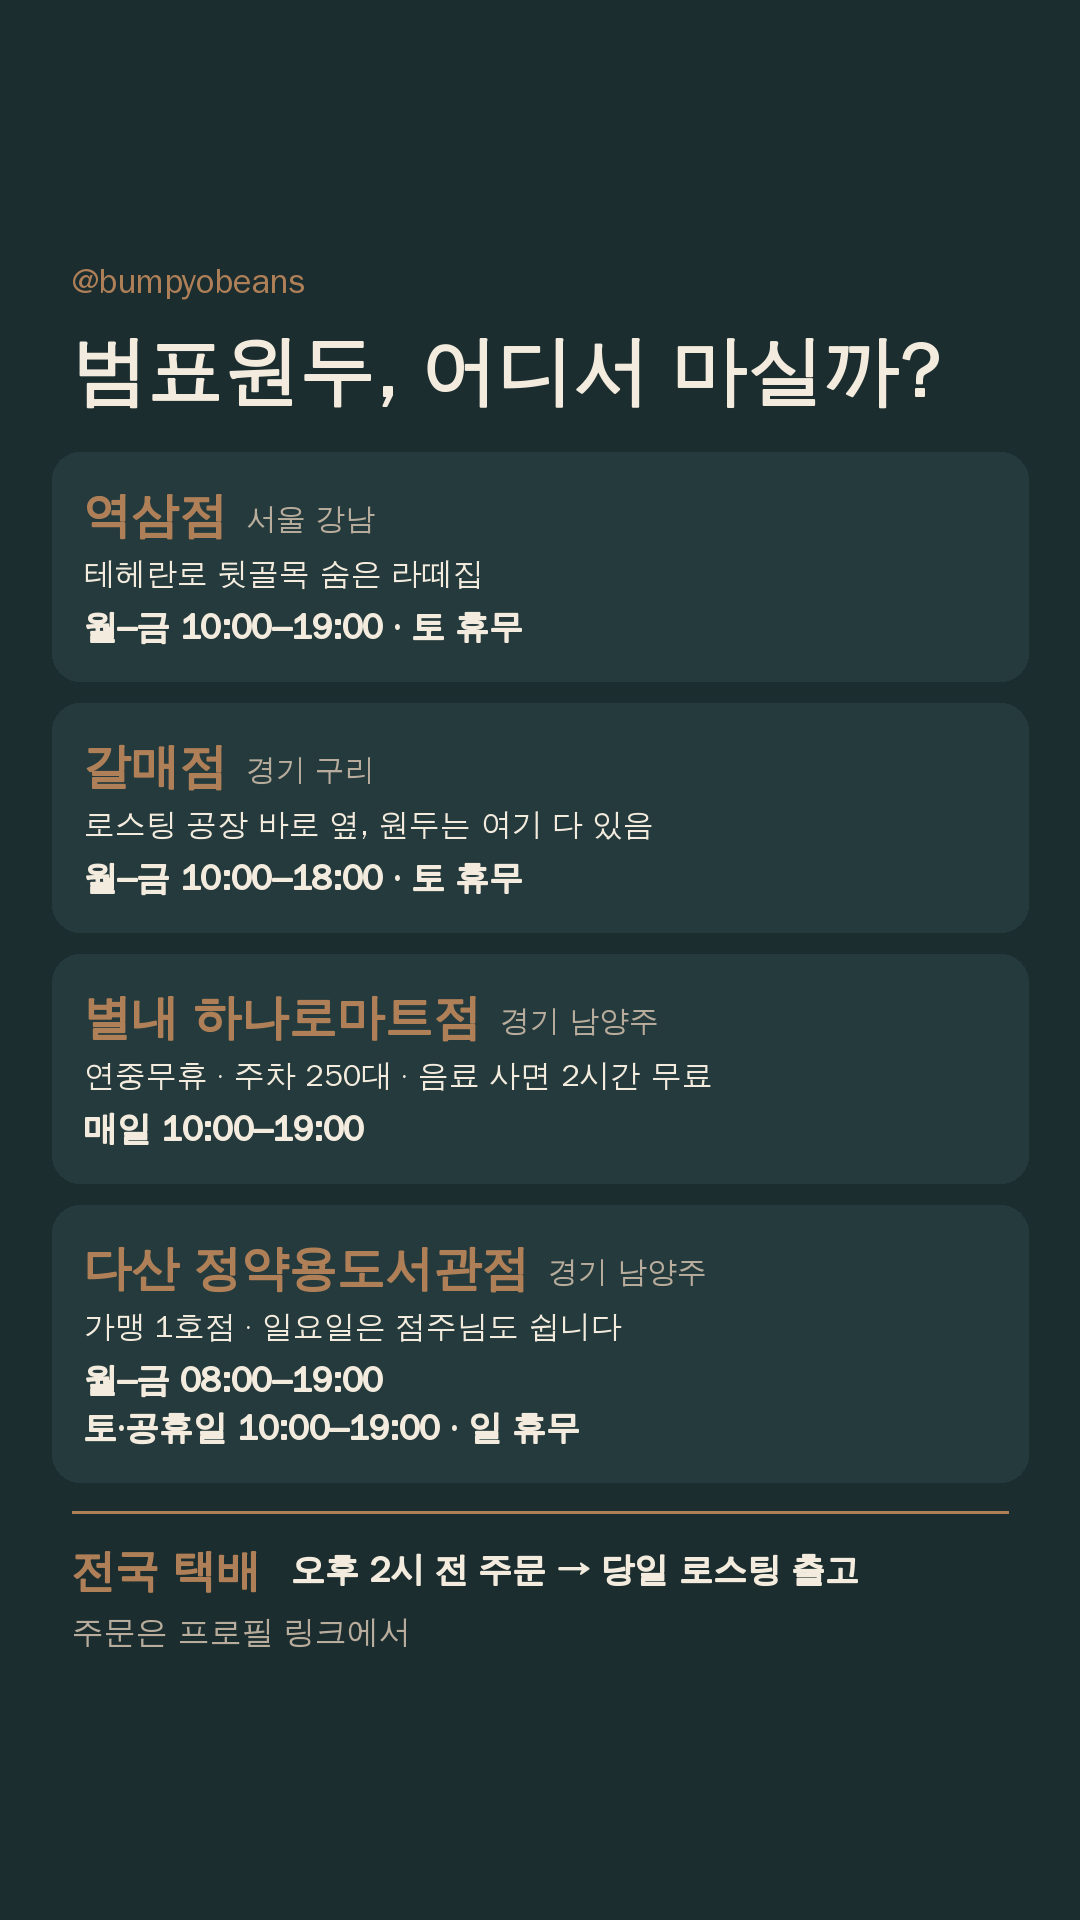
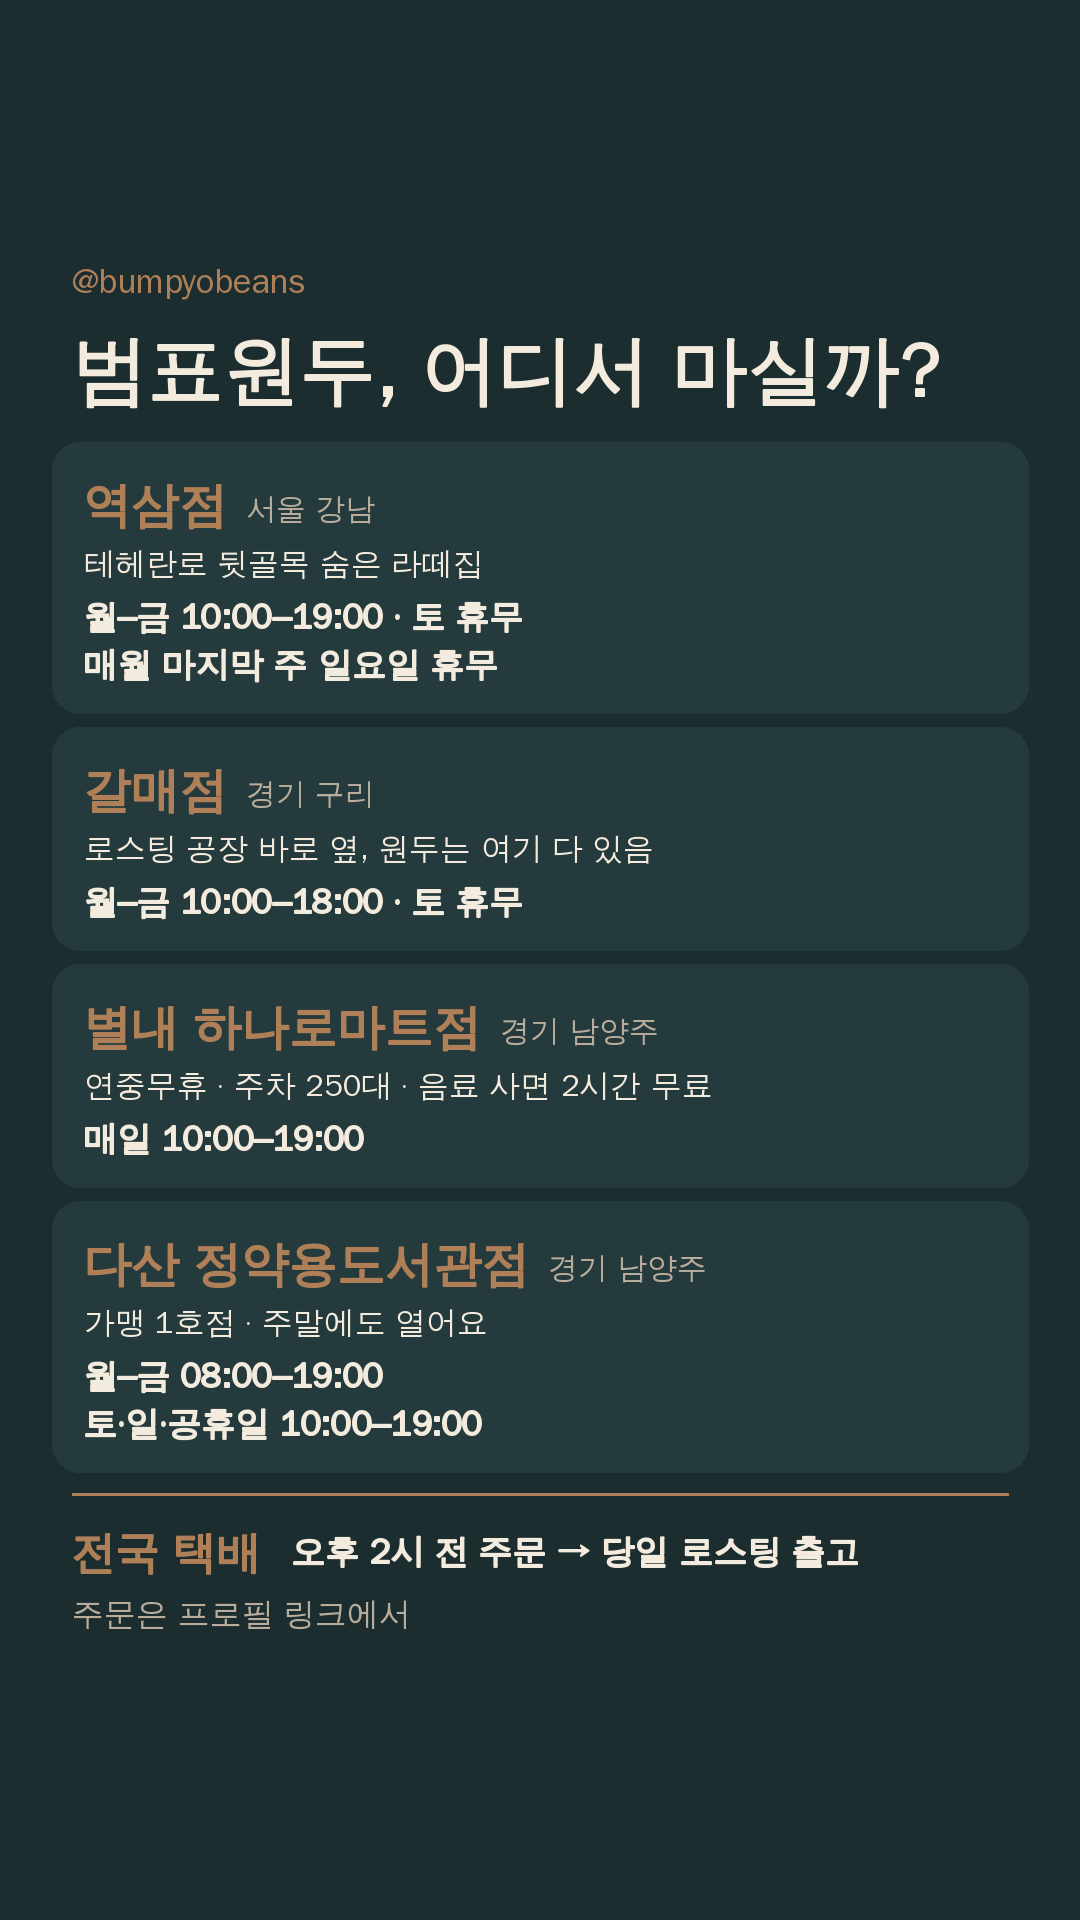
Update store hours: Dasan open weekends, Yeoksam closed last Sunday
Claude-Session: https://claude.ai/code/session_015nkFFMbZZ1pWpapoeisJCN

Changed region(s): [[0.0611, 0.25, 0.7944, 0.875], [0.55, 0.4062, 0.6111, 0.4688], [0.5806, 0.6562, 0.6417, 0.6875]]

diff --git a/highlight-covers/make_store_story.py b/highlight-covers/make_store_story.py
@@ -19,13 +19,13 @@ PAD = 72
 
 STORES = [
     ("역삼점", "서울 강남", "테헤란로 뒷골목 숨은 라떼집",
-     ["월–금 10:00–19:00 · 토 휴무"]),
+     ["월–금 10:00–19:00 · 토 휴무", "매월 마지막 주 일요일 휴무"]),
     ("갈매점", "경기 구리", "로스팅 공장 바로 옆, 원두는 여기 다 있음",
      ["월–금 10:00–18:00 · 토 휴무"]),
     ("별내 하나로마트점", "경기 남양주", "연중무휴 · 주차 250대 · 음료 사면 2시간 무료",
      ["매일 10:00–19:00"]),
-    ("다산 정약용도서관점", "경기 남양주", "가맹 1호점 · 일요일은 점주님도 쉽니다",
-     ["월–금 08:00–19:00", "토·공휴일 10:00–19:00 · 일 휴무"]),
+    ("다산 정약용도서관점", "경기 남양주", "가맹 1호점 · 주말에도 열어요",
+     ["월–금 08:00–19:00", "토·일·공휴일 10:00–19:00"]),
 ]
 
 
@@ -45,11 +45,11 @@ y = SAFE_TOP + 10
 text(d, (PAD, y), "@bumpyobeans", 34, TAN)
 y += 62
 text(d, (PAD, y), "범표원두, 어디서 마실까?", 76, CREAM, bold=True)
-y += 130
+y += 120
 
 NAME, SUB, DESC, HOURS = 48, 30, 31, 34
 for name, region, desc, hours in STORES:
-    h = 34 + NAME + 22 + DESC + 20 + len(hours) * (HOURS + 14) + 26
+    h = 34 + NAME + 22 + DESC + 20 + len(hours) * (HOURS + 14) + 20
     d.rounded_rectangle((PAD - 20, y, W - PAD + 20, y + h), radius=28, fill=CARD)
     cy = y + 32
     text(d, (PAD + 12, cy), name, NAME, TAN, bold=True)
@@ -61,7 +61,7 @@ for name, region, desc, hours in STORES:
     for line in hours:
         text(d, (PAD + 12, cy), line, HOURS, CREAM, bold=True)
         cy += HOURS + 14
-    y += h + 22
+    y += h + 14
 
 # nationwide delivery
 y += 8

diff --git a/.claude/instagram/voice.md b/.claude/instagram/voice.md
@@ -100,10 +100,10 @@
   그전에는 코스트코에서 랩핑랩을 대량으로 주문해 썼다.
 - 2023년부터 홍익대 교양수업 [창업과 경영]에서 한 학기에 한 번 강의한다. 교수님의 제안으로 시작했다.
 - 매장 4곳:
-  - **역삼점** (서울 강남): 테헤란로 뒷골목 라떼집. 월–금 10:00–19:00, 토 휴무
+  - **역삼점** (서울 강남): 테헤란로 뒷골목 라떼집. 월–금 10:00–19:00, 토 휴무, 매월 마지막 주 일요일 휴무
   - **갈매점** (경기 구리): 로스팅 공장 바로 옆. 월–금 10:00–18:00, 토 휴무
   - **별내 하나로마트점** (경기 남양주): 연중무휴. 주차 250대, 음료 구매 시 2시간 무료. 매일 10:00–19:00
-  - **다산 정약용도서관점** (경기 남양주): 가맹 1호점. 월–금 08:00–19:00, 공휴일·토 10:00–19:00, 일 휴무
+  - **다산 정약용도서관점** (경기 남양주): 가맹 1호점. 월–금 08:00–19:00, 토·일·공휴일 10:00–19:00 (주말 정상 영업)
 - 전국 택배: 오후 2시 전 주문하면 당일 로스팅해서 출고
 - {{추가 예정: 사용자가 자료를 업로드하면 여기에 정리}}
 
